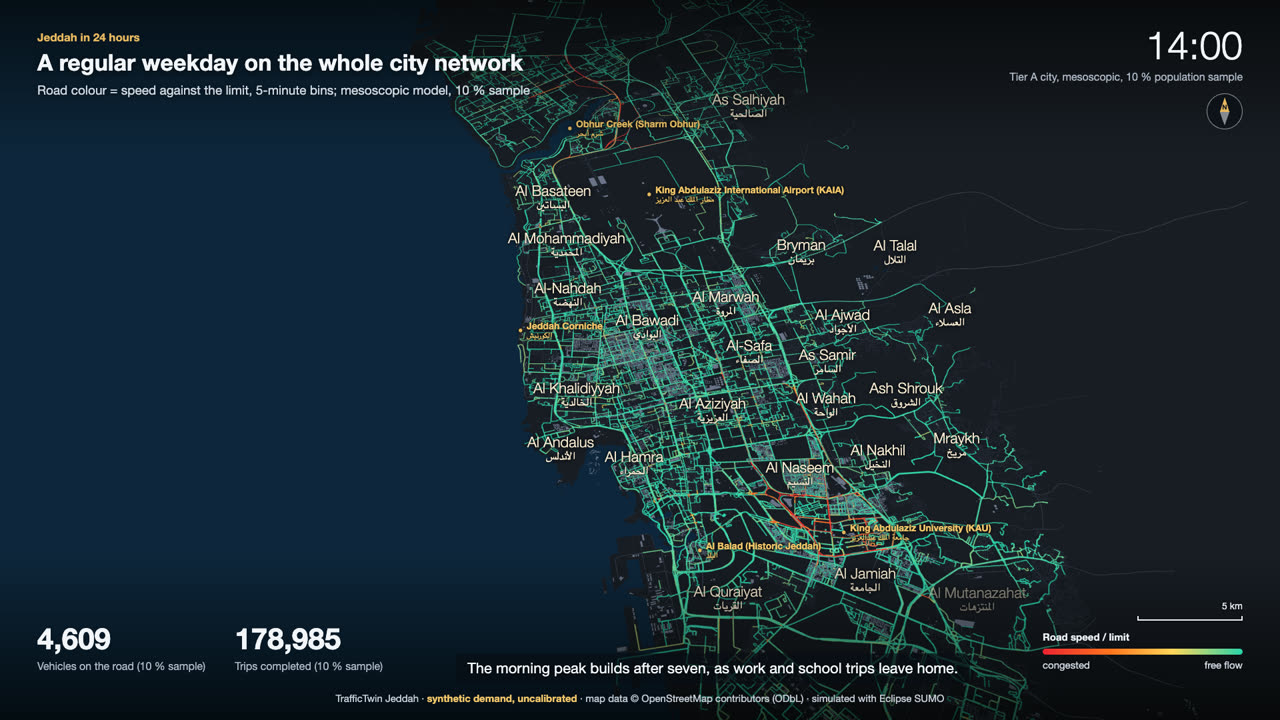
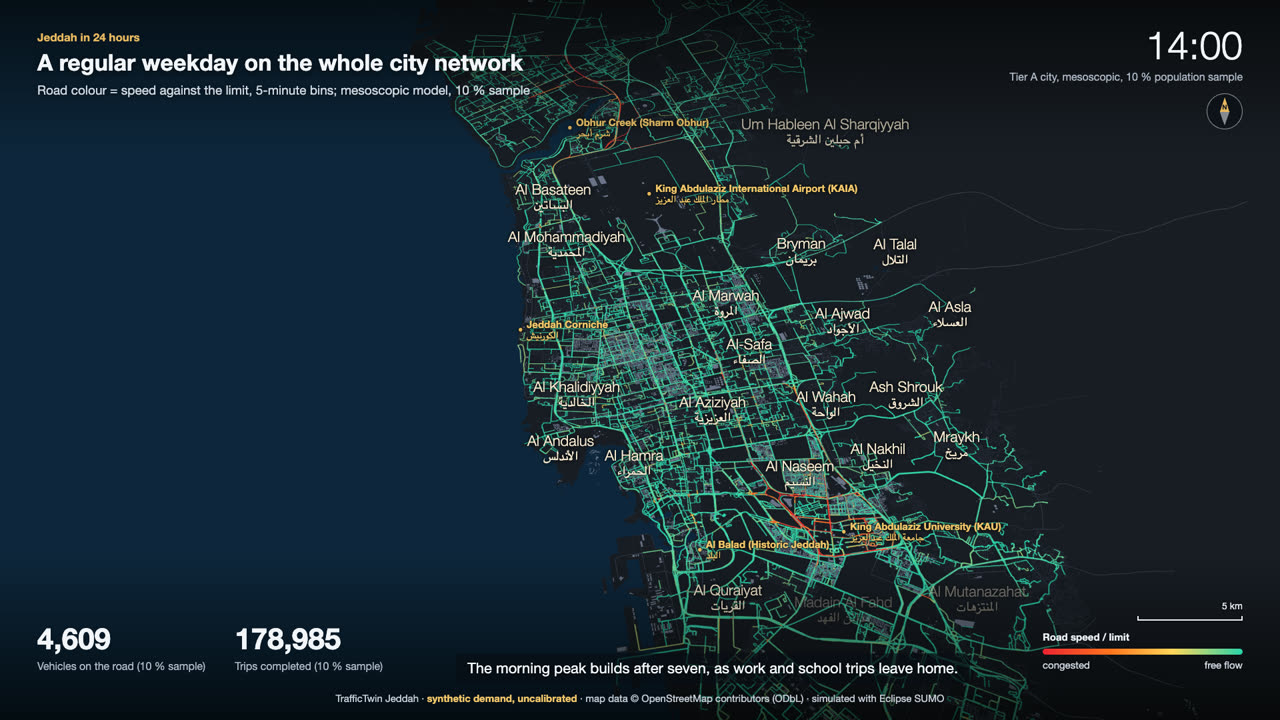
docs(movies): final narrated render (audio = video length on all films), STATUS rows for Obhur and MOVIES_V2, updated previews

diff --git a/docs/movies.md b/docs/movies.md
@@ -30,12 +30,12 @@ frames are cached in `runs/movies/` (`TT_MOVIES_DIR` overrides; the render smoke
 |---|---|---|---|
 | `city-24h` | Tier A weekday baseline as a 24 h time-lapse (02:00 to 02:00): edge speed/limit per 5-minute bin, camera pulls back from the Corniche to the whole city, sun rises and sets over Jeddah | `baseline-weekday-f0.1-s1-e5f1906a-65fac195-65b0f3` (10 % sample, meso) | 40 s (narrated) |
 | `tahlia-street` | Street level (pitch about 60 deg) dolly east along Tahlia Street, then north into the queue on the corridor to Madinah Road; trails, vehicles coloured by speed | `accident_tahlia-tahlia-s1-257eae8d~baseline` (window baseline) | 30 s (narrated) |
-| `incident` | Split screen, window baseline against the crash run (both lanes of the northbound corridor closed 08:10 to 08:30), then the speed difference map; KPIs from the scenario report | `accident_tahlia-tahlia-s1-257eae8d` and its `~baseline` | 41.5 s (narrated) |
-| `events` | One cut each: heavy rain (difference against the dry baseline), storm flood with the closed flood-site edges, a six-vehicle motorcade on Tahlia Street | `rain_tahlia-…-67ab9112` (+ `~baseline`), `flood_tahlia-…-48d26de0`, `motorcade_tahlia-…-060b80d4` | 40.2 s (narrated) |
-| `strategist` | The 08:30 ambulance situation: no strategy, then the top 3 ranked options one after another, with the strategist's own reasons and ETAs on the HUD | `runs/strategist/rec-20261016T114454Z-22d13986` (emergency_tahlia_0830); cars around the ambulance from the window baseline | 47.1 s (narrated) |
-| `evacuation` | Obhur Creek mouth evacuation (fictional), across the water from the Jeddah Tower site: far-first phased release (three bands lighting up), balanced exits and contraflow on three corridors; clearance times from the run; the HUD and voice say the strategist recommends balanced exits alone | `evac_obhur_film-obhur-s1-83e89905` (run for the film, see below) | 52.4 s (narrated) |
+| `incident` | Split screen, window baseline against the crash run (both lanes of the northbound corridor closed 08:10 to 08:30), then the speed difference map; KPIs from the scenario report | `accident_tahlia-tahlia-s1-257eae8d` and its `~baseline` | 41.53 s (narrated) |
+| `events` | One cut each: heavy rain (difference against the dry baseline), storm flood with the closed flood-site edges, a six-vehicle motorcade on Tahlia Street | `rain_tahlia-…-67ab9112` (+ `~baseline`), `flood_tahlia-…-48d26de0`, `motorcade_tahlia-…-060b80d4` | 40.13 s (narrated) |
+| `strategist` | The 08:30 ambulance situation: no strategy, then the top 3 ranked options one after another, with the strategist's own reasons and ETAs on the HUD | `runs/strategist/rec-20261016T114454Z-22d13986` (emergency_tahlia_0830); cars around the ambulance from the window baseline | 47.10 s (narrated) |
+| `evacuation` | Obhur Creek mouth evacuation (fictional), across the water from the Jeddah Tower site: far-first phased release (three bands lighting up), balanced exits and contraflow on three corridors; clearance times from the run; the HUD and voice say the strategist recommends balanced exits alone | `evac_obhur_film-obhur-s1-83e89905` (run for the film, see below) | 52.37 s (narrated) |
 | `policy-lab` | Difference mode (blue = faster, red = slower): 30 % remote work against the baseline, staggered schools and the central cordon against their matched controls; KPI values from docs/policies.md | `remote_work_30`, `staggered_schools_60` (+ `--control`), `cordon_center` (+ `--control`), the weekday baseline | 45 s (narrated) |
-| `loop` | The recommended Loop tunnel from docs/loop.md: corridor C1 Al-Salamah - King Abdulaziz University (17.9 km, 8 stations, cyan line and stations) over the morning-peak baseline, then difference mode (Loop minus baseline) in the morning peak along the corridor and the evening peak across the city; KPIs from the docs/loop.md recommendation table | `loop_recommended` (shuttle, alpha 0.3, measured capacity; run for the film, see below) against `baseline-weekday-f0.1-s1-e5f1906a-65fac195-65b0f3` | 45.6 s (narrated) |
+| `loop` | The recommended Loop tunnel from docs/loop.md: corridor C1 Al-Salamah - King Abdulaziz University (17.9 km, 8 stations, cyan line and stations) over the morning-peak baseline, then difference mode (Loop minus baseline) in the morning peak along the corridor and the evening peak across the city; KPIs from the docs/loop.md recommendation table | `loop_recommended` (shuttle, alpha 0.3, measured capacity; run for the film, see below) against `baseline-weekday-f0.1-s1-e5f1906a-65fac195-65b0f3` | 45.67 s (narrated) |
 | `showreel` | All eight films in order, each after a title card, cut to the spec's `showreel: [start, end]` excerpt (20 s each), joined with 0.6 s crossfades | the films above | 2 min 51 s, one spoken headline per film |
 
 Stills (poster frames, from the middle of each film):
@@ -116,7 +116,11 @@ lines:
   loudness-normalised to -16 LUFS integrated and -1.5 dBTP (EBU R128, two-pass, linear,
   A-mov-011) and muxed as AAC 160 kbit/s 48 kHz with a soft English subtitle track (mov_text);
   `movies/<film>.srt` sits next to the MP4. The showreel speaks one headline per film over its title
-  card (the films' own tracks are not cut) and ends with the caveat.
+  card (the films' own tracks are not cut) and ends with the caveat, so its script has one line
+  per film plus the caveat (9 lines; the 4-8 rule is for the films). The README shows the films'
+  GIFs; `make movies-docs` exports the showreel's still but not a showreel GIF (by design).
+  Muxing trims the voice back to the film's exact length (loudnorm pads to 100 ms blocks), and
+  stretched shots last a whole number of frames, so audio and video end on the same frame.
 - **Subtitles** are drawn by the HUD from the same lines (Homebrew's ffmpeg has no libass or
   drawtext). `--no-subtitles` keeps the voice without them; `--no-voice` renders silent films with
   the specs' own timing.
@@ -311,19 +315,19 @@ before AAC; loudness = measured integrated loudness of the muxed AAC track (targ
 
 | film | size | frames | duration | MP4 | GIF | per frame | total | browser RSS max | disk max | loudness | voice |
 |---|---|---|---|---|---|---|---|---|---|---|---|
-| `city-24h` | 1920x1080 | 1200 | 40.00 s | 84.8 MB | 2.54 MB | 0.22 s | 365 s | 1273 MB | 298 MB | -16.6 LUFS | `94ad8c7c1c9d045a` |
-| `tahlia-street` | 1920x1080 | 900 | 30.00 s | 25.4 MB | 2.92 MB | 0.16 s | 226 s | 1218 MB | 123 MB | -16.9 LUFS | `d6159532e3419a82` |
-| `incident` | 1920x1080 | 1245 | 41.50 s | 40.0 MB | 2.23 MB | 0.18 s | 323 s | 1231 MB | 180 MB | -16.4 LUFS | `5794b06e6e8a5d85` |
-| `events` | 1920x1080 | 1204 | 40.20 s | 43.6 MB | 2.97 MB | 0.18 s | 315 s | 1444 MB | 186 MB | -16.5 LUFS | `c476145faef2ef1b` |
-| `strategist` | 1920x1080 | 1411 | 47.10 s | 34.8 MB | 2.40 MB | 0.16 s | 320 s | 1291 MB | 146 MB | -16.6 LUFS | `f633b053c6e07081` |
-| `evacuation` | 1920x1080 | 1570 | 52.40 s | 33.5 MB | 1.56 MB | 0.13 s | 295 s | 1332 MB | 114 MB | -16.6 LUFS | `8050b9cd32001531` |
-| `policy-lab` | 1920x1080 | 1349 | 45.00 s | 48.0 MB | 1.92 MB | 0.23 s | 424 s | 1224 MB | 271 MB | -16.5 LUFS | `6c0d24d864c8fcc9` |
-| `loop` | 1920x1080 | 1368 | 45.60 s | 93.1 MB | 2.19 MB | 0.26 s | 481 s | 1254 MB | 357 MB | -16.5 LUFS | `7af3417513494b38` |
-| `showreel` | 1920x1080 | 5130 | 171.0 s | 190.8 MB | 2.59 MB | - | - | - | - | -16.1 LUFS | `7833d0271c46c075` |
+| `city-24h` | 1920x1080 | 1200 | 40.00 s | 84.8 MB | 2.55 MB | 0.18 s | 306 s | 1319 MB | 299 MB | -16.6 LUFS | `94ad8c7c1c9d045a` |
+| `tahlia-street` | 1920x1080 | 900 | 30.00 s | 25.9 MB | 2.93 MB | 0.14 s | 176 s | 1067 MB | 127 MB | -16.9 LUFS | `d6159532e3419a82` |
+| `incident` | 1920x1080 | 1246 | 41.53 s | 40.4 MB | 2.23 MB | 0.16 s | 278 s | 1292 MB | 184 MB | -16.4 LUFS | `5a654a5099513955` |
+| `events` | 1920x1080 | 1204 | 40.13 s | 44.6 MB | 2.94 MB | 0.15 s | 261 s | 1447 MB | 191 MB | -16.5 LUFS | `a317dfdc0af44f95` |
+| `strategist` | 1920x1080 | 1413 | 47.10 s | 35.0 MB | 2.42 MB | 0.14 s | 278 s | 1286 MB | 152 MB | -16.6 LUFS | `83fefd7d0e152b21` |
+| `evacuation` | 1920x1080 | 1571 | 52.37 s | 34.5 MB | 1.60 MB | 0.12 s | 265 s | 1422 MB | 119 MB | -16.6 LUFS | `bb102eabf0b202f9` |
+| `policy-lab` | 1920x1080 | 1350 | 45.00 s | 47.9 MB | 1.90 MB | 0.19 s | 336 s | 1137 MB | 275 MB | -16.5 LUFS | `a0f1fd236b66a8b4` |
+| `loop` | 1920x1080 | 1370 | 45.67 s | 93.7 MB | 2.19 MB | 0.25 s | 439 s | 1098 MB | 360 MB | -16.5 LUFS | `7c24d6f2b63268a6` |
+| `showreel` | 1920x1080 | 5130 | 171.0 s | 191.9 MB | 2.61 MB | - | - | - | - | -16.1 LUFS | `9a7b02445042d790` |
 
 "per frame" is draw + screenshot (labels add about 1 ms); "total" adds the narration (cached
 after the first run), the bundle, chunk encoding, concat, the audio mux and the GIF. All eight
-films render in about 46 minutes; the bundles take 1-10 s each (the first build of a
+films render in about 39 minutes; the bundles take 1-10 s each (the first build of a
 policy run's edge bins takes longer). `--4k` quadruples the pixels (not measured).
 
 ## Licences and credits

diff --git a/docs/STATUS.md b/docs/STATUS.md
@@ -17,12 +17,13 @@ All results: **synthetic demand, uncalibrated**.
 | M4 | Policy lab | done (Track A) | remote_work_30 reproduced on main: mean delay -9.3 %, AM peak -9.4 %, VKT -1.6 %, CO2 -6.9 % |
 | M5 | Focus windows and events | done (Track B) | accident_tahlia on main: mean delay +5.7 % vs window baseline, 130 s wall |
 | M6 | Emergency strategist | done (Track B) | top 3 in 11.6 s on main; best (68 s) beats no strategy (173 s) |
-| M7 | Evacuation | done (Track B) | evac_corniche_hamra via `sim.runner --scenario`: T50/T90/T100 1,264/2,399/3,004 s |
+| M7 | Evacuation | done (Track B); public demo moved to Obhur (Track I) | evac_obhur via `sim.runner --scenario`: T50/T90/T100 933/1,702/2,115 s; strategist recommends balanced exits (T90 1,402 s); the Al Hamra demo was withdrawn (TI-002) |
 | M8 | Calibration (dormant) | done (Track A) | synthetic round trip GEH<5 100 %; no real counts |
 | M9 | Docs and release | done | `make demo` from a fresh clone: 6 min 23 s, screenshots docs/img/final-*.png; `docker compose up --build` verified; section below |
 | LANE_AUDIT, v2 | Lane counts from imagery | blocked - accuracy (Track C) | held-out precision 60 % < 80 % gate; `jeddah.lanes.net.xml` not written, so not promoted |
 | MOVIES | Cinematic films (Track E) | done (Track E), merged in integration pass 2; `loop` film added in pass 3 | 8 films; `loop` rendered on main 34.00 s, 246 s; showreel 171.0 s (8 films); docs/movies.md |
 | LOOP | Loop tunnels | done (Track D), merged in integration pass 3 | recommended C1 + shuttle alpha 0.3 reproduced on main: relief 57,671 VHT/day, 28,820 passengers/day; docs/loop.md |
+| MOVIES_V2 | Narration, map labels, Obhur evacuation (Track I) | done (Track I), branch trackI, not merged yet | 8 films + showreel re-rendered with Kokoro voice-over, subtitles, street/district/landmark labels, compass, scale bar, callouts; audio = video length on all 9; evacuation film moved to Obhur (`evac_obhur`); docs/status/trackI.md |
 
 ## Integration — 2026-10-16
 Merged on `main`: trackC (c5b3203), trackB (46fc412), trackA (13ed16e), in that order. Conflicts only
@@ -58,7 +59,7 @@ End to end on the merged code (10 % sample, seed 1; all **synthetic demand, unca
 | remote_work_30 | `sim.runner --policy remote_work_30 --daytype weekday --sample 0.10 --seed 1` | 779 s (about 13 min) | mean delay -9.3 %, AM-peak -9.4 %, VKT -1.6 %, VHT -7.7 %, CO2 -6.9 % (same routes hash 01ff40085fb11d11 as Track A) |
 | accident_tahlia-tahlia-s1-257eae8d | `sim.runner --scenario accident_tahlia --window tahlia --seed 1` | 130 s | mean delay 97.8 -> 103.5 s (+5.7 %), as in M5 |
 | strategist rec-20261016T114454Z-22d13986 | `strategist.run --scenario emergency_tahlia_0830 --window tahlia --seed 1` | 11.6 s | Route A + rescue lane 68 s, Route B + preemption 89 s, Route C 95 s; no strategy 173 s |
-| evac_corniche_hamra-tahlia-s1-162d21cb | `sim.runner --scenario evac_corniche_hamra --seed 1` | 328 s | 2,000/2,000 out; T50 1,264 s, T90 2,399 s, T100 3,004 s; background +90.1 veh-h |
+| evac_corniche_hamra-tahlia-s1-162d21cb | `sim.runner --scenario evac_corniche_hamra --seed 1` (scenario withdrawn by Track I, TI-002; replaced by `evac_obhur`, docs/evacuation.md) | 328 s | 2,000/2,000 out; T50 1,264 s, T90 2,399 s, T100 3,004 s; background +90.1 veh-h |
 
 Viewer: all five appear in `/api/runs`; the baseline, policy, accident and evacuation runs carry their comparison runs (the strategist recommendation has none: it has no run of its own, `strategist~...`); screenshots
 `docs/img/integration-{baseline,policy,policy-districts,accident,strategist,evacuation}.png`
@@ -594,7 +595,7 @@ replicate, score, classification, explanations, explicit recommendation, decisio
 `evac_flood_balad.yaml`; `docs/evacuation.md` (method, contraflow mechanics, results tables,
 register block); 42 tests in `tests/test_evacuation.py` and `tests/test_evacuation_run.py`.
 Commands:
-`uv run python -m sim.events.evacuation run --scenario evac_corniche_hamra --seed 1`,
+`uv run python -m sim.events.evacuation run --scenario evac_obhur --seed 1` (was `evac_corniche_hamra`, withdrawn by Track I),
 `uv run python -m sim.events.evacuation run --scenario evac_flood_balad --seed 1`,
 `uv run python -m strategist.evacuation run --scenario <id> --seed 1`,
 `uv run python -m strategist.evacuation approve <recommendation_id> --option 1`.
